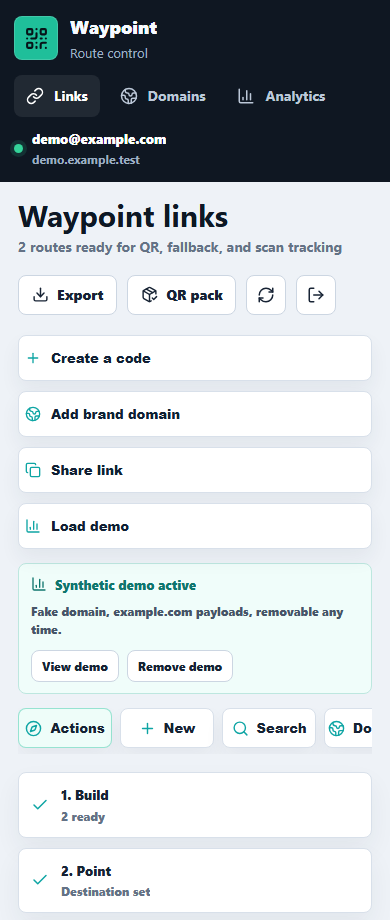
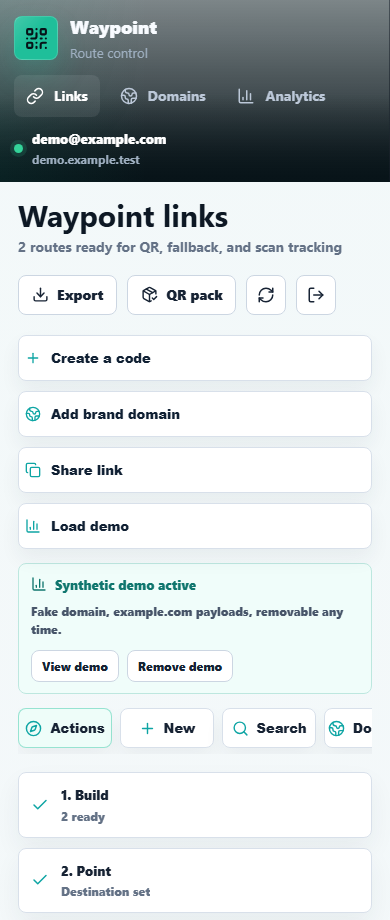
Add Waypoint brand texture

diff --git a/src/App.css b/src/App.css
@@ -2,17 +2,37 @@
   display: grid;
   grid-template-columns: 248px minmax(0, 1fr);
   min-height: 100vh;
-  background: #eef2f7;
+  background:
+    linear-gradient(180deg, rgba(255, 255, 255, 0.62), rgba(238, 242, 247, 0.92)),
+    radial-gradient(circle at 84% 0%, rgba(31, 191, 154, 0.08), transparent 34%),
+    #eef2f7;
   color: #0d1824;
 }
 
 .side-rail {
+  position: relative;
+  isolation: isolate;
   display: flex;
   flex-direction: column;
   gap: 28px;
   padding: 24px 18px;
-  background: #0f1722;
+  background:
+    linear-gradient(180deg, rgba(7, 19, 24, 0.5), rgba(7, 19, 24, 0.98)),
+    url('/waypoint-route-texture.svg') center / cover;
   color: #f8fbff;
+  overflow: hidden;
+  border-right: 1px solid rgba(15, 23, 34, 0.48);
+}
+
+.side-rail::after {
+  content: '';
+  position: absolute;
+  inset: 0;
+  z-index: -1;
+  background:
+    linear-gradient(90deg, rgba(31, 191, 154, 0.08), transparent 38%),
+    linear-gradient(180deg, transparent 52%, rgba(7, 19, 24, 0.9));
+  pointer-events: none;
 }
 
 .brand {
@@ -30,8 +50,11 @@
   place-items: center;
   border: 1px solid rgba(255, 255, 255, 0.16);
   border-radius: 8px;
-  background: #1fbf9a;
+  background:
+    linear-gradient(135deg, rgba(255, 255, 255, 0.16), transparent 42%),
+    #1fbf9a;
   color: #071318;
+  box-shadow: 0 14px 28px rgba(31, 191, 154, 0.22);
 }
 
 .brand strong,
@@ -113,8 +136,23 @@
 }
 
 .workspace {
+  position: relative;
+  z-index: 0;
   min-width: 0;
   padding: 28px;
+}
+
+.workspace::before {
+  content: '';
+  position: fixed;
+  top: 0;
+  right: 0;
+  width: min(680px, 52vw);
+  height: 100vh;
+  background: url('/waypoint-route-texture.svg') top right / cover;
+  opacity: 0.035;
+  pointer-events: none;
+  z-index: -1;
 }
 
 .topbar {
@@ -182,8 +220,8 @@
   place-items: center;
   padding: 24px;
   background:
-    linear-gradient(135deg, rgba(31, 191, 154, 0.12), transparent 36%),
-    linear-gradient(225deg, rgba(37, 99, 235, 0.1), transparent 42%),
+    linear-gradient(135deg, rgba(7, 19, 24, 0.24), rgba(7, 19, 24, 0.76)),
+    url('/waypoint-route-texture.svg') center / cover,
     #0f1722;
   color: #0d1824;
 }